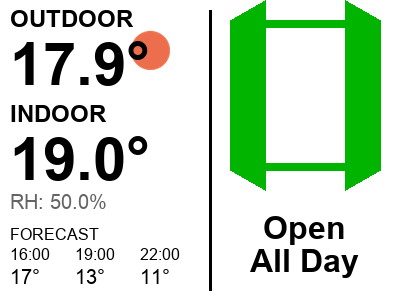
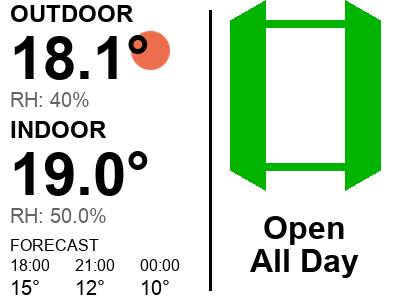
Add humidity to outdoor display

Changed region(s): [[0.03, 0.12, 0.39, 0.99], [0.03, 0.0, 0.33, 0.09], [0.33, 0.81, 0.45, 0.99]]

diff --git a/app/renderer.py b/app/renderer.py
@@ -24,6 +24,7 @@ def render_dashboard(weather_state, sensor_state):
 
     # Variables
     w_temp = weather_state.current_temp if weather_state.current_temp is not None else "--"
+    w_rh = weather_state.current_rh if weather_state.current_rh is not None else "--"
     w_code = weather_state.weather_code
     w_day = weather_state.is_day
 
@@ -32,7 +33,7 @@ def render_dashboard(weather_state, sensor_state):
 
     # ========= LEFT PANE: Weather & Sensor (x: 0-190) =========
     # Outdoor
-    draw.text((10, 5), "OUTDOOR", font=font_med, fill=(0, 0, 0))
+    draw.text((10, 0), "OUTDOOR", font=font_med, fill=(0, 0, 0))
     if w_code is not None:
         try:
             icon = get_weather_icon(w_code, w_day, size="2x")
@@ -42,26 +43,27 @@ def render_dashboard(weather_state, sensor_state):
         except Exception:
             pass
             
-    draw.text((10, 30), f"{w_temp}°", font=font_huge, fill=(0, 0, 0))
+    draw.text((10, 24), f"{w_temp}°", font=font_huge, fill=(0, 0, 0))
+    draw.text((10, 88), f"RH: {w_rh}%", font=font_small, fill=(100, 100, 100))
 
     # Indoor
-    draw.text((10, 100), "INDOOR", font=font_med, fill=(0, 0, 0))
-    draw.text((10, 125), f"{in_temp}°", font=font_huge, fill=(0, 0, 0))
+    draw.text((10, 116), "INDOOR", font=font_med, fill=(0, 0, 0))
+    draw.text((10, 140), f"{in_temp}°", font=font_huge, fill=(0, 0, 0))
     # Place RH below the INDOOR temp but nicely aligned
-    draw.text((10, 190), f"RH: {in_rh}%", font=font_small, fill=(100, 100, 100))
+    draw.text((10, 204), f"RH: {in_rh}%", font=font_small, fill=(100, 100, 100))
 
     draw.line((210, 10, 210, 290), fill=(0, 0, 0), width=3)
 
     # Forecast Row (Bottom Left - Space out wider)
-    draw.text((10, 225), "FORECAST", font=font_xsmall, fill=(0, 0, 0))
+    draw.text((10, 236), "FORECAST", font=font_xsmall, fill=(0, 0, 0))
     if hasattr(weather_state, 'hourly_forecast') and weather_state.hourly_forecast:
         x_off = 10
         for idx in [2, 5, 8]:
             if idx < len(weather_state.hourly_forecast):
                 fcast = weather_state.hourly_forecast[idx]
                 t_str = fcast["time"]
-                draw.text((x_off, 245), t_str, font=font_xsmall, fill=(0, 0, 0))
-                draw.text((x_off, 265), f"{round(fcast['temp'])}°", font=font_small, fill=(0, 0, 0))
+                draw.text((x_off, 256), t_str, font=font_xsmall, fill=(0, 0, 0))
+                draw.text((x_off, 276), f"{round(fcast['temp'])}°", font=font_small, fill=(0, 0, 0))
                 x_off += 65
 
     # ========= RIGHT PANE: Window Decision (x: 210-400) =========

diff --git a/demo.py b/demo.py
@@ -1,13 +1,14 @@
 import os
+
+# We are on macOS, so tell renderer to use a local font for demo BEFORE any other imports!
+os.environ["FONT_PATH"] = "/System/Library/Fonts/Supplemental/Arial.ttf"
+os.environ["FONT_BOLD_PATH"] = "/System/Library/Fonts/Supplemental/Arial Bold.ttf"
+
 import requests
 import datetime
 from app.weather import weather_state
 from app.mqtt_client import sensor_state
 from app.renderer import render_dashboard
-
-# We are on macOS, so tell renderer to use a local font for demo
-os.environ["FONT_PATH"] = "/System/Library/Fonts/Supplemental/Arial.ttf"
-os.environ["FONT_BOLD_PATH"] = "/System/Library/Fonts/Supplemental/Arial Bold.ttf"
 
 def run_demo():
     # 1. Fetch real weather data from Open-Meteo
